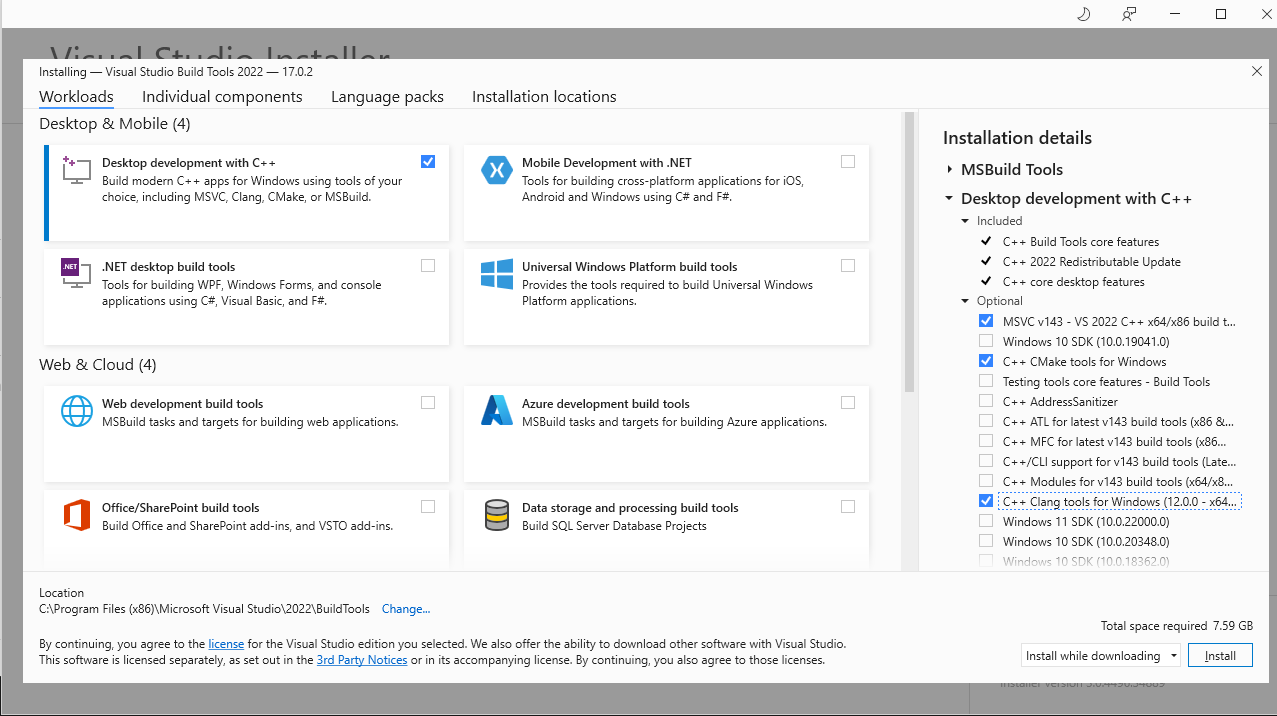
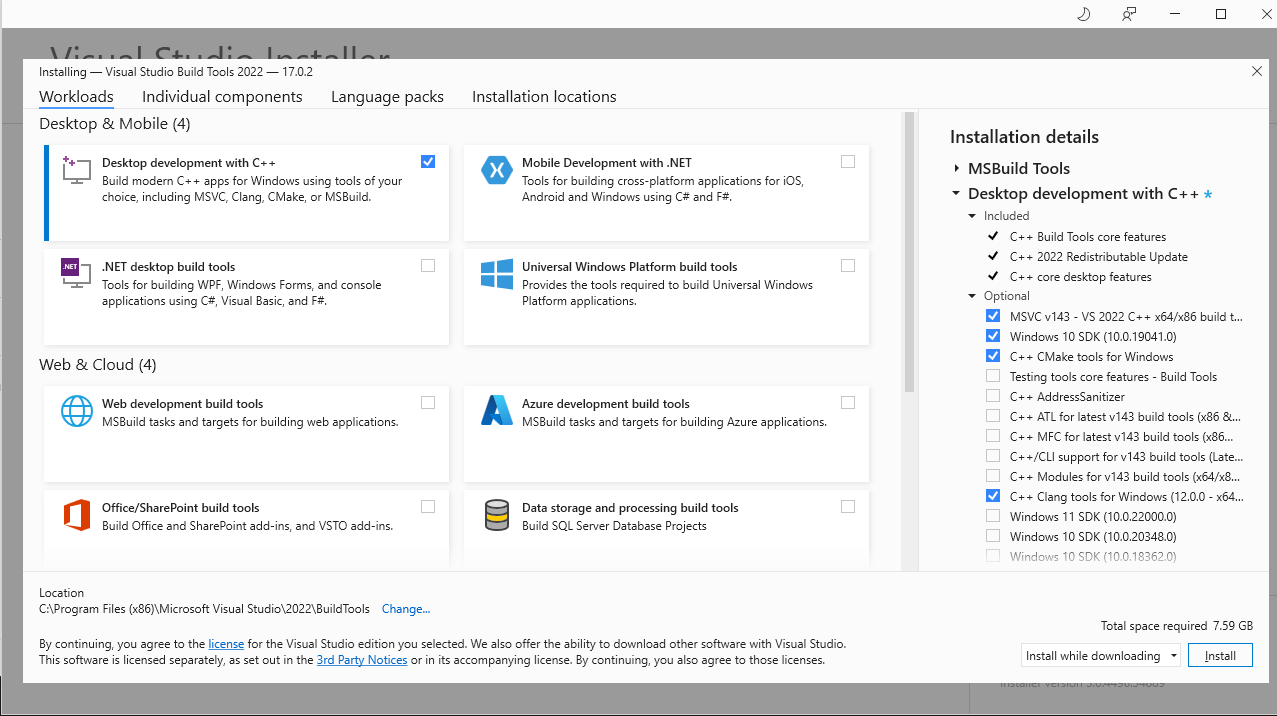
Added some info for MMC and fixed images on Max intro

Changed region(s): [[0.733, 0.1844, 0.9773, 0.7989]]

diff --git a/max-intro.md b/max-intro.md
@@ -23,7 +23,7 @@ The main sections that compose the **native Max/MSP ecosystem** are: Max, MSP, J
 
 The Max section covers all the concepts connected to the processing of **control data streams**, managing all data that are not audio signals or image matrices. The signals handled by this section are called **control signals**. The objects (functions) that act on these signals are connected to each other with **gray patch chords** (by default). 
 
-![image](https://github.com/max-externals/site/blob/main/media/es_1_max.png)
+![image](https://raw.githubusercontent.com/max-externals/site/main/media/es_1_max.png)
 
 The control signals in Max/MSP can be of the following **data types**:
 
@@ -36,7 +36,7 @@ The control signals in Max/MSP can be of the following **data types**:
 
 The MSP section covers all the concepts connected to the processing of **audio data streams** (audio signals).  An audio signal is a **Float number** (32bit precision). In the Max/MSP environment **audio signals** can be passed and transmitted between objects only if the DSP (audio processing) is enabled, unlike control signals, which are always active. The objects (functions) that act on these signals always have a name ending with a tilde symbols (~) and they are connected to each other with a **segmented patch chords** (yellow and black by default). 
 
-![image](https://github.com/max-externals/site/blob/main/media/es_2_msp.png)
+![image](https://raw.githubusercontent.com/max-externals/site/main/media/es_2_msp.png)
 
 An audio signal is a discrete time function (defined by samples at the rate of the sampling frequency: the Sample Rate) and can be used to represent both waveforms and any other time-varying numerical parameter, as well as constants.
  
@@ -46,7 +46,7 @@ The Jitter section covers all the concepts connected to the **image/video/3D pro
 
 A black and white image is a typical two-dimensional one-plane matrix, where each cell represents the grayscale value to be associated with that pixel. 
 
-![image](https://github.com/max-externals/site/blob/main/media/es_3_jitter.png)
+![image](https://raw.githubusercontent.com/max-externals/site/main/media/es_3_jitter.png)
 
 The objects (functions) that act on matrixes always have a name starting with the prefix .jit and they are connected to each other with a **segmented patch chords** (green and black by default). 
 

diff --git a/mmc/tools.md b/mmc/tools.md
@@ -1,0 +1,36 @@
+---
+title: Tools
+permalink: /mmc/tools
+nav_order: 1
+---
+
+{:toc}
+
+# Tools
+
+Per partecipare al workshop sara' necessario avere preinstallato sul proprio computer alcuni programmi, di seguito le istruzioni per Windows e per macOS
+
+## Windows
+
+### Programmi
+- [Build Tools for Visual Studio](https://visualstudio.microsoft.com/downloads/#build-tools-for-visual-studio-2022) necessario per avere tutti gli strumenti di sviluppo in ambiente windows, eseguire l'installer e selezionare le opzioni come nell'immagine
+
+![VS Build Tools](https://raw.githubusercontent.com/max-externals/site/main/media/VSBuildTools.PNG)
+
+- [Visual Studio Code](https://code.visualstudio.com/) durante il workshop useremo Visual Studio Code che rende lo sviluppo semplificato
+- [CMake](https://cmake.org/download/) cmake permette di semplificare
+
+
+## OS X
+
+### Programmi
+- [XCode command line utils](https://raw.githubusercontent.com/max-externals/site/main/tools/install-clang.zip) necessario per avere tutti gli strumenti di sviluppo in ambiente mac, scarica lo zip aprilo e apri il file install-clang.command , in alternativa apri un terminale ed esegui `xcode-select --install`
+- [Visual Studio Code](https://code.visualstudio.com/) durante il workshop useremo Visual Studio Code che rende lo sviluppo semplificato
+- [CMake](https://cmake.org/download/) cmake permette di semplificare
+
+## Set-up Visual Studio Code
+
+Durante il workshop inoltre useremo le estensioni C/C++ per Visual Studio Code [https://marketplace.visualstudio.com/items?itemName=ms-vscode.cpptools-extension-pack](https://marketplace.visualstudio.com/items?itemName=ms-vscode.cpptools-extension-pack)
+Per installarla aprire Visual Studio Code e aprire le estensioni  e cercare `c/c++ extension pack` selezionare il primo elemento e installarlo
+
+![Install C++ Extension](https://raw.githubusercontent.com/max-externals/site/main/media/vs_code_cpp_extension.png)

diff --git a/sdk.md b/sdk.md
@@ -14,12 +14,12 @@ It additionally includes documentation of the API and example projects using the
 
 ## Download and place the SDK 
 
-You can download the SDK here: [download sdk 8.0.3](https://cycling74.com/downloads/sdk). 
+You can download the SDK here: [download sdk 8.2.0](https://cycling74.com/downloads/sdk). 
 The SDK is structured as a Max package. Simply place the SDK in your `Max/Packages` folder to begin working.
 
 ## Online API documentation
 
-You can find the latest online documentation of the SDK here: [API documentation](https://cycling74.com/sdk/max-sdk-8.0.3/html/index.html).
+You can find the latest online documentation of the SDK here: [API documentation](https://cycling74.com/sdk/max-sdk-8.2.0/).
 The SDK documentation is accompanied by a series of projects for compiling some example Max/MSP external objects. 
 When you build the example projects, the resulting Max external will be located in a folder called "externals" at the top level of the SDK package.
 

diff --git a/setup-workspace.md b/setup-workspace.md
@@ -9,10 +9,12 @@ nav_order: 3
 # Setup workspace
 
 ## Windows
-Define windows requirement
+
 
 ### Tools
-Tools needed, Visual Studio  https://visualstudio.microsoft.com/vs/community/
+Tools needed:
+- Visual Studio  https://visualstudio.microsoft.com/vs/community/
+- Visual Studio
 
 ### Setup SDK
 How to download, where to place files etc
